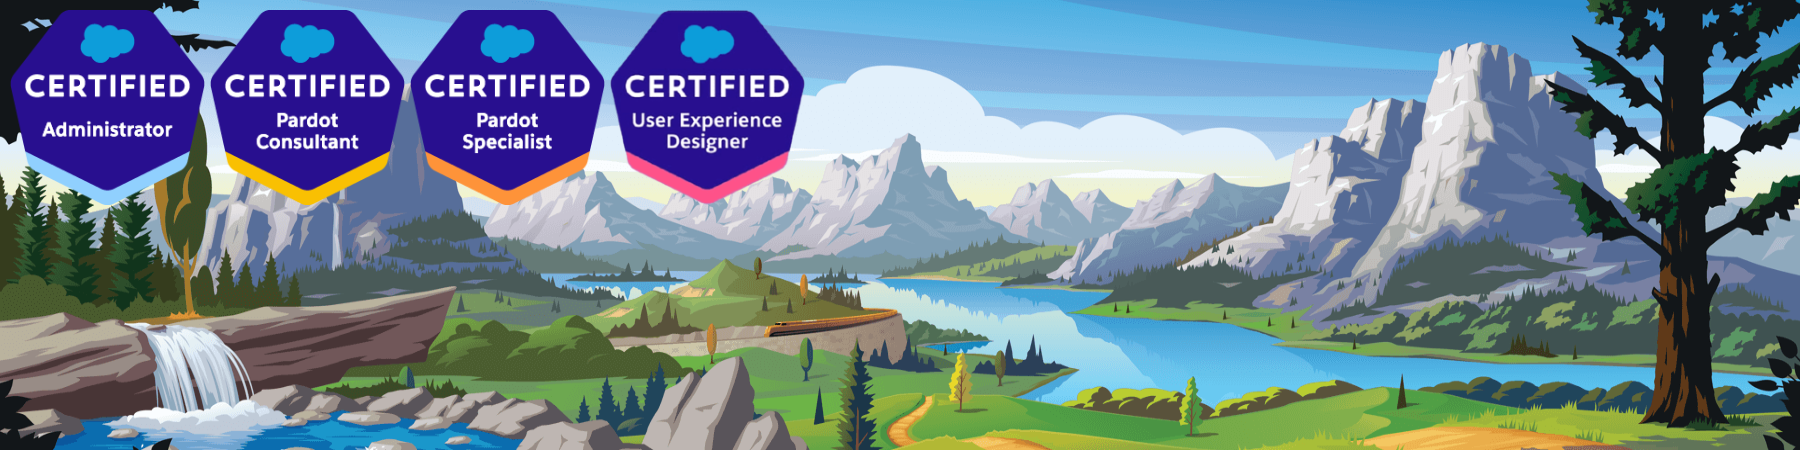
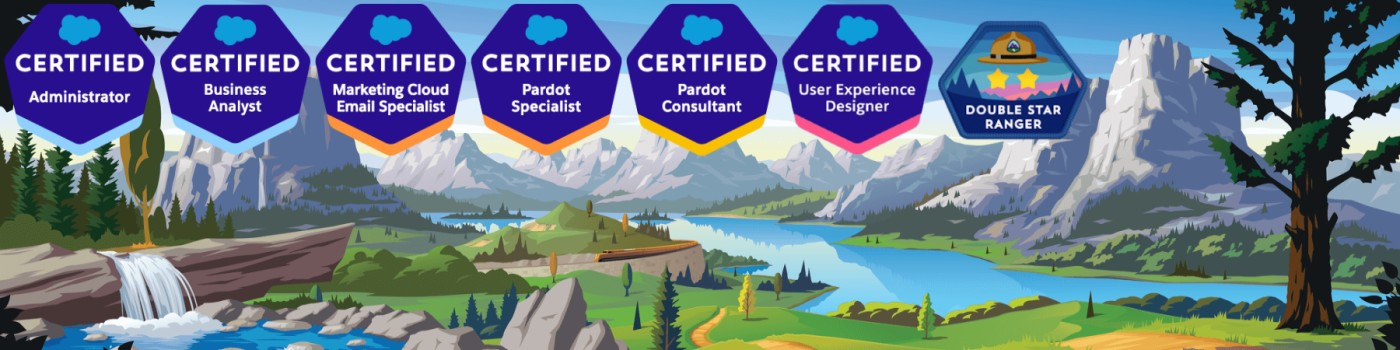
update

diff --git a/content/page/about.md b/content/page/about.md
@@ -2,21 +2,22 @@
 title: "About Me"
 date: 2020-12-27
 slug: "about"
-description: "Pardot Consultant 🚀 / 4x Salesforce Certified 📚 / Salesforce Marketing Champion 2020 🏆 / CIM Chartered Marketer 🎓"
+description: "Pardot Consultant 🚀 / 6x Salesforce Certified 📚 / Salesforce Marketing Champion 🏆 / CIM Chartered Marketer 🎓"
 image: /page/matt-lincoln-about.png
 ---
 
-I got my start in the industry over 10 years ago as a lead generation focused B2B marketer, whilst working towards becoming a Chartered Marketer. During this time I became a specialist in CRM, email marketing, forms and landing pages. It wasn't until 2014 that I got my first taste of a single, fully integrated Marketing Automation system as a Pardot end user.
+I got my start in the industry over 10 years ago as a lead generation focused B2B marketer, whilst working towards becoming a Chartered Marketer. During this time I became a specialist in CRM, email marketing, forms and landing pages. It wasn't until 2014 that I got my first experience of a single, fully integrated Marketing Automation system as a Pardot end user.
 
 I enjoyed working with Pardot so much that I decided to join a Pardot Consulting Partner to gain experience in helping as many businesses in as many industries as possible.
 
-In the past few years, I've travelled far and wide to work with over 50 clients and trained delegates from over 30 countries in best practice in Pardot and Marketing Automation.
+In the past few years, I've travelled around the world to work with over 50 clients and trained delegates from over 30 countries in best practice in Pardot and Marketing Automation.
 
 Pardot is a significant investment for your organisation, but for in-house marketers, it's incredibly difficult to make the most out of the platform when it's only a small part of your day-to-day role.
 
 Here are some of the challenges I help clients with on a day-to-day basis:
 
 * Pardot Training
+* Pardot Implementation
 * Form and Landing Page Design & Setup
 * Email Design and Campaign Execution
 * Outsourced Pardot Administration
